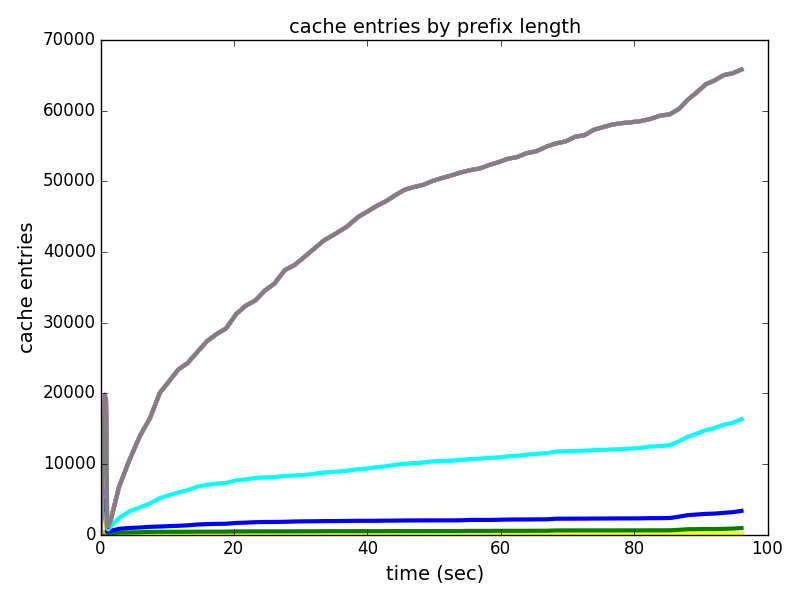
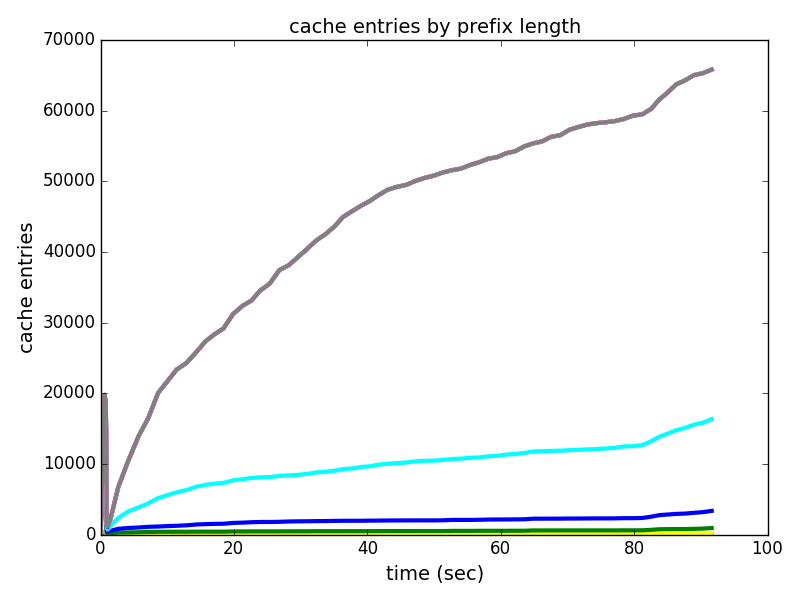
Updated tic-tac-toe results

diff --git a/code/drivers.py b/code/drivers.py
@@ -40,7 +40,7 @@ def tdata_2():
            garbage_collect=True)
     return (metadata, metrics, cache, priority_queue, best, rule_list)
 
-def tdata_3(min_objective=1., method='curiosity', max_cache_size=30000):
+def tdata_3(min_objective=1., method='curiosity', max_cache_size=70000):
     (metadata, metrics, cache, priority_queue, best, rule_list) = \
     bbound(din=os.path.join('..', 'data'), dout=os.path.join('..', 'cache'),
            dlog=os.path.join('..', 'logs'), dfigs=os.path.join('..', 'figs'),

diff --git a/results/tdata.md b/results/tdata.md
@@ -10,6 +10,5 @@
 	else if {c4=x,c5=x,c6=x} then predict 1
 	else predict 0
 
-![tdata_R-serial_priority-c=0.00100-min_cap=0.001-min_objective=1.000-method=curiosity-max_cache_size=30000-sample=1.00-log](../figs/tdata_R-serial_priority-c=0.00100-min_cap=0.001-min_objective=1.000-method=curiosity-max_cache_size=30000-sample=1.00-log.png)
-![tdata_R-serial_priority-c=0.00100-min_cap=0.001-min_objective=1.000-method=curiosity-max_cache_size=30000-sample=1.00-cache](../figs/tdata_R-serial_priority-c=0.00100-min_cap=0.001-min_objective=1.000-method=curiosity-max_cache_size=30000-sample=1.00-leaves.png)
-![tdata_R-serial_priority-c=0.00100-min_cap=0.001-min_objective=1.000-method=curiosity-max_cache_size=30000-sample=1.00-cache](../figs/tdata_R-serial_priority-c=0.00100-min_cap=0.001-min_objective=1.000-method=curiosity-max_cache_size=30000-sample=1.00-cache.png)
+![tdata_R-serial_priority-c=0.00100-min_cap=0.001-min_objective=1.000-method=curiosity-max_cache_size=70000-sample=1.00-log](../figs/tdata_R-serial_priority-c=0.00100-min_cap=0.001-min_objective=1.000-method=curiosity-max_cache_size=70000-sample=1.00-log.png)
+![tdata_R-serial_priority-c=0.00100-min_cap=0.001-min_objective=1.000-method=curiosity-max_cache_size=70000-sample=1.00-cache](../figs/tdata_R-serial_priority-c=0.00100-min_cap=0.001-min_objective=1.000-method=curiosity-max_cache_size=70000-sample=1.00-cache.png)
